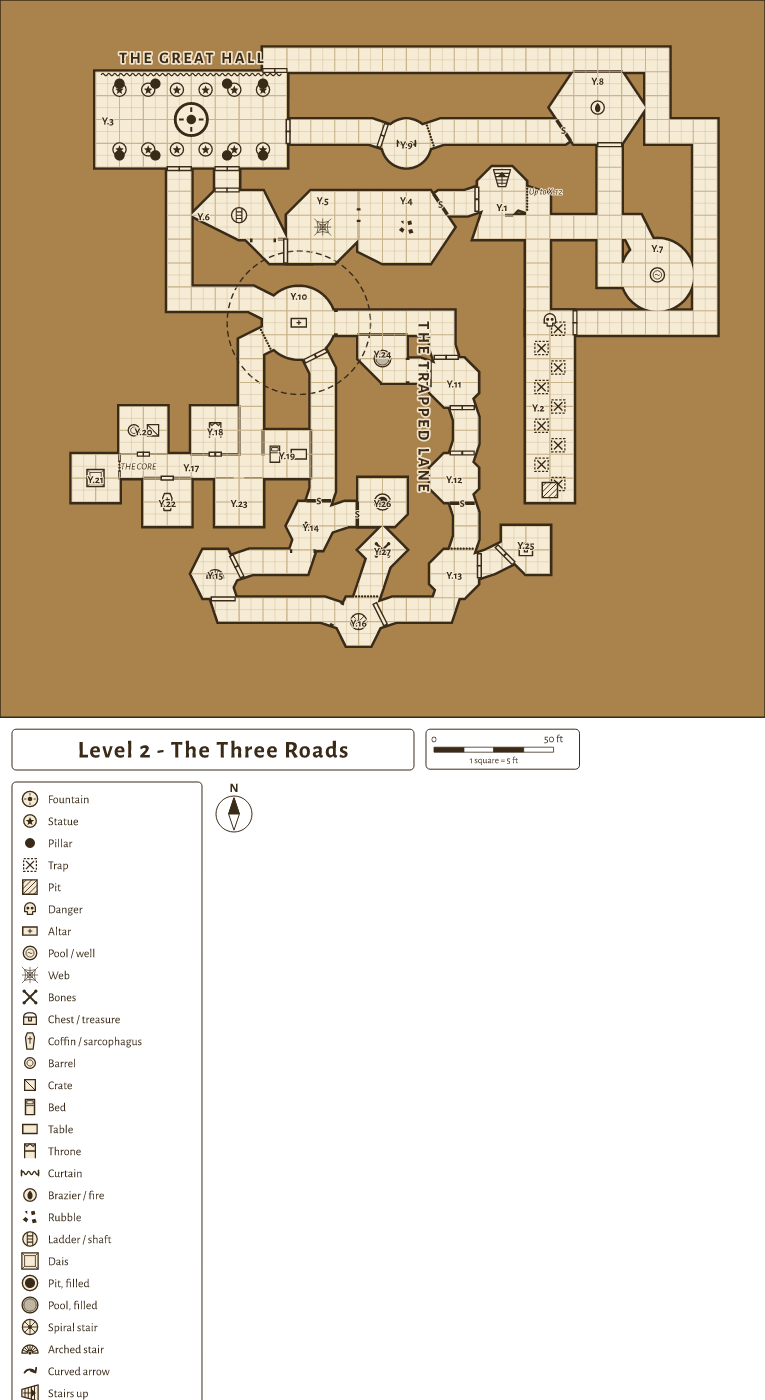
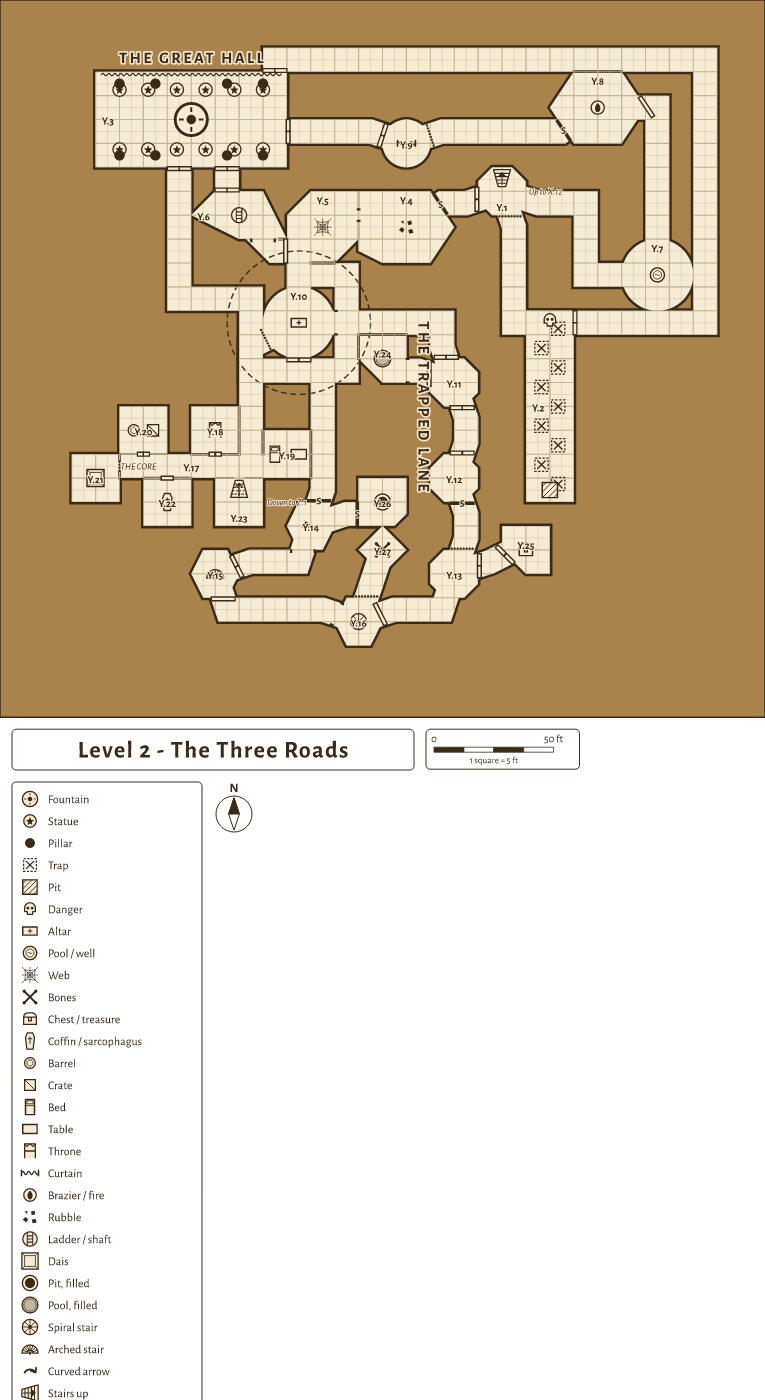
visual-design T10: passages into non-rect rooms take a port, crowded wall passages are spread
Two faults seen on the test dungeon. A passage into a round, octagonal or polygon room ended at its
centre by a diagonal leg, and two such passages overlapped there (Y.7); passages leaving one wall of
a rect room a cell apart overlapped and stacked their doors (X.1). block_map gives such an end a port
on the room's outline, snapped to a cardinal or diagonal bearing so it lies on the passage lattice,
and spread_ends gives each of the passages on a crowded wall its own offset. Each repair is made
room by room and kept only where artgen's check then finds no more than before.

On the pyramid, only the ends that had a diagonal leg changed: C.4's two passages and G.22 and G.12's
four. Their checks stay clean and no other map or write-up differs. R17 in the artgen report.

Claude-Session: https://claude.ai/code/session_015pJc9kCb1Z8WfLQ2oZjPY7

diff --git a/tools/dungeon.py b/tools/dungeon.py
@@ -8,6 +8,8 @@ problems     what is wrong with a block, for the validator
 """
 from __future__ import annotations
 
+import collections
+import copy
 import functools
 import hashlib
 import json
@@ -334,8 +336,14 @@ def block_map(region, block: kdl.Node) -> tuple[dict | None, list[str]]:
                         best, mid = hi - lo, (p[0] + ex * (lo + hi) / 2 / n, p[1] + ey * (lo + hi) / 2 / n)
             return mid
 
-        def end(c, bearing):
-            """A passage's end at room c: by the wall its Connection names, else where artgen likes."""
+        def end(c, bearing, far, ports=False):
+            """A passage's end at room c: by the wall its Connection names, else where artgen likes - but with `ports`, for a
+            room no box draws, on its outline toward room `far`, since artgen ends a passage at such a room's centre."""
+            if bearing is None and ports and not square(c):
+                dx, dy = at[far][0] - at[c][0], at[far][1] - at[c][1]
+                bearing = math.degrees(math.atan2(dx, -dy)) % 360
+                nearest = round(bearing / 90) * 90 % 360                       # a cardinal port lies on the passage lattice, an oblique one may not
+                bearing = nearest if abs((bearing - nearest + 180) % 360 - 180) < 35 else round(bearing / 45) * 45 % 360
             if bearing is None:
                 return {"room": rid(c)}
             if bearing % 90 == 0 and square(c):
@@ -352,7 +360,7 @@ def block_map(region, block: kdl.Node) -> tuple[dict | None, list[str]]:
             return {"room": rid(c), "port": to_cell(at[c][0] + x, at[c][1] + y)}
 
         corner = lambda c: (at[c][0] - size[c][0] / 2, at[c][1] - size[c][1] / 2)
-        traps = []
+        traps, recipe = [], []
         for a, b in sorted(seen, key=lambda k: (round(math.dist(corner(k[0]), corner(k[1]))), number(k[0]), number(k[1]))):
             ends = seen[a, b]                            # shortest first, as `dungeon layout` routes them
             first, second = ends.get(a), ends.get(b)
@@ -364,11 +372,27 @@ def block_map(region, block: kdl.Node) -> tuple[dict | None, list[str]]:
                                          "kind": kind or GAP.get(str(n.props.get("type")), "open")})
                 traps += [("connection", len(m["connections"]) - 1)] if hazard else []
                 continue
-            m["corridors"].append({"from": end(a, named.get((a, b))), "to": end(b, named.get((b, a))), "route": "maze",
+            recipe.append((a, b))
+            m["corridors"].append({"from": end(a, named.get((a, b)), b), "to": end(b, named.get((b, a)), a), "route": "maze",
                                    "width": round(LATTICE / cell, 2), "origin": "tables",
                                    **({"style": "natural"} if rough(*rn) else {}),
                                    "doors": [opening(first[0] if first else None), opening(second[0] if second else None)]})
             traps += [("corridor", len(m["corridors"]) - 1)] if hazard else []
+        if any(not square(c) for c in at):               # a passage that runs on to a room's centre by a diagonal leg: on a port instead, if the map is no worse
+            f = engine("facts", m)
+            def diagonal(i, k):
+                p = f["corridors"][i]["path"]
+                (x0, y0), (x1, y1) = (p[0:2], p[2:4]) if k == 0 else (p[-2:], p[-4:-2])
+                return abs(x1 - x0) > 0.01 and abs(y1 - y0) > 0.01
+            shared = [(i, k) for i, (a, b) in enumerate(recipe) for k, c in enumerate((a, b)) if not square(c) and diagonal(i, k)]
+            for room in dict.fromkeys(recipe[i][k] for i, k in shared):         # room by room, each kept if the map is no worse
+                again = copy.deepcopy(m)
+                for i, k in (s for s in shared if recipe[s[0]][s[1]] == room):
+                    a, b = recipe[i]
+                    here, far = (a, b) if k == 0 else (b, a)
+                    again["corridors"][i]["from" if k == 0 else "to"] = end(here, named.get((here, far)), far, ports=True)
+                if findings(again) <= findings(m):
+                    m = again
         added = [(i, k) for i, c in enumerate(m["corridors"]) for k in (0, 1) if c["doors"][k] == "arch"]
         if added:                                        # an added arch that meets another corridor's end is left open
             f = engine("facts", m)
@@ -413,6 +437,46 @@ def block_map(region, block: kdl.Node) -> tuple[dict | None, list[str]]:
             m["overlay"]["symbols"].append({"kind": "trap", "x": round((cx(a) + cx(b)) / 2, 2),
                                             "y": round((cy(a) + cy(b)) / 2, 2), "origin": "tables"})
     return m, problems
+
+
+def findings(m: dict) -> int:
+    """What artgen's `check` finds wrong with a map: errors and warnings."""
+    found = engine("check", m)
+    return len(found.get("errors", [])) + len(found.get("warnings", []))
+
+
+def spread_ends(m: dict) -> None:
+    """Passages that leave one wall of a rectangular room are a passage's width apart: where artgen drew two of them over
+    each other (their doors stack, or stand in the other's floor), each is given its own place along the wall, evenly.
+    A wall too short for them is left as it is. The answer is kept under .maps-cache."""
+    rooms = {r["id"]: r for r in m["rooms"] if r.get("shape") in ("rect", "cave")}
+    found = engine("check", m)
+    hit = {int(i) for x in found.get("errors", []) + found.get("warnings", []) if x.get("id") in ("doors-stacked", "door-off-wall")
+           for i in re.findall(r"corridors\[(\d+)\]", x.get("path", "") + " " + x["message"])}
+    if not hit:
+        return
+    f = engine("facts", m)
+    ends = collections.defaultdict(list)              # (room, side) -> [(position along the wall, corridor, end)]
+    for i, c in enumerate(m["corridors"]):
+        path = f["corridors"][i]["path"]
+        for end, pt, nxt in (("from", path[0:2], path[2:4]), ("to", path[-2:], path[-4:-2])):
+            r = rooms.get(c[end].get("room"))
+            if r is None or len(path) < 4:
+                continue
+            dx, dy = nxt[0] - pt[0], nxt[1] - pt[1]               # the way it heads off: its path starts at the room's anchor
+            side = ("e" if dx > 0 else "w") if abs(dx) >= abs(dy) else ("s" if dy > 0 else "n")
+            ends[r["id"], side].append((pt[1] - r["y"] if side in "ew" else pt[0] - r["x"], i, end))
+    again = copy.deepcopy(m)
+    for (rid_, side), group in ends.items():
+        r = rooms[rid_]
+        length = r["h"] if side in "ew" else r["w"]
+        width = max(m["corridors"][i].get("width", 2) for _, i, _ in group)
+        if len(group) < 2 or not any(i in hit for _, i, _ in group) or length / len(group) < width:
+            continue
+        for slot, (_, i, end) in enumerate(sorted(group)):
+            again["corridors"][i][end] = {"room": rid_, "side": side, "offset": round((slot + 0.5) * length / len(group), 2)}
+    if findings(again) < findings(m):                 # kept only where artgen then finds less
+        m["corridors"] = again["corridors"]
 
 
 def route_around(m: dict) -> None:

diff --git a/tools/maps.py b/tools/maps.py
@@ -789,6 +789,7 @@ def built(code: str, bid: str, setting: Path = tables.SETTING) -> tuple[Path | N
         return None, tuple(problems)
     if ENGINE[region.rating.upper()] == "dungeon":
         import dungeon
+        dungeon.spread_ends(m)
         dungeon.route_around(m)
     target, text = region.dir / f"{bid}.json", json.dumps(m, indent=1)
     if not target.exists() or target.read_text() != text:

diff --git a/plans/visual-design/report-artgen.md b/plans/visual-design/report-artgen.md
@@ -47,6 +47,7 @@ files are under `plans/visual-design/` and are named in each request.
 | R14 | `layout` with cave and polygon rooms: it joins a room as its box, so a way between two caves is a door on a wall the cave's outline does not reach | `evidence/test-dungeon/designs/Z-Design.md`: 24 of 24 seeds routed, and `check` finds `way-no-passage` on 10 or 11 of the 13 ways |
 | R15 | The `dark` preset draws the outside band (title, scale bar, legend) in colours that cannot be read, and a legend of thirty symbols shrinks a square map to a thumbnail | `evidence/test-dungeon/level3.png`; `level2.png` |
 | R16 | Carry what a table cannot say into the map: symbols, rings, wavy edges, natural and curved passages, double doors, dashed walls, doors standing in a run | Only door kinds, shapes, widths and stairs came through the tables; the rest was a 30 to 60 line pass for each level (`evidence/test-dungeon/scripts/`) |
+| R17 | A passage that ends at a round, octagonal or polygon room goes to its anchor, by a diagonal final leg, and two such passages overlap there; passages that leave one wall of a rect room a cell apart overlap and stack their doors | Seen on the test dungeon's Y.7 and X.1, and on C.4 and G.22 of the pyramid. `check` finds the stacked doors but not the diagonal leg. setting_builder now writes ports and offsets itself (`dungeon.block_map`, `spread_ends`), where `check` agrees |
 | R12 | Room places in whole feet: a room an odd number of cells wide has its centre at a half foot, so the packing's place is not one a table can hold | `design.py` sizes rooms in 10 ft steps to avoid it |
 | R13 | Routing that holds at 25 rooms and more: seeds that route, or a repair when none do | G at 29 rooms (below): the real graph from the tables routes 1 seed of 12, and a design of the same size 0 of 12, so a level this size needs dozens of seeds |
 

diff --git a/plans/sheet-maps/artgen-capabilities.md b/plans/sheet-maps/artgen-capabilities.md
@@ -12,7 +12,7 @@ the choices `tools/dungeon.py` and `tools/maps.py` make. What artgen lacks, and 
 | `scale.perCell` | 5 ft a cell, so a 10-ft passage is `width: 2`. |
 | `rooms[].shape` | `rect`, `circle`, `cave`, `octagon` (`cut` 1/(2+√2), so a square one is regular) and `hexagon` as themselves; a `poly` outline as a `poly`. |
 | `rooms[].number` | `false`: the code alone labels a room. |
-| `corridors[]` | Where two rooms do not touch: `route: "maze"`, `width: 2`, its ends `{room, side}` or `{room, port}` at the wall the Connection names, else `{room}`. Written shortest first, as `dungeon layout` routed them, so the map draws the passages `pack` measured. |
+| `corridors[]` | Where two rooms do not touch: `route: "maze"`, `width: 2`, its ends `{room, side}` or `{room, port}` at the wall the Connection names, else `{room}`. Written shortest first, as `dungeon layout` routed them, so the map draws the passages `pack` measured. A passage into a round, octagonal or polygon room whose route ends by a diagonal leg takes a `port` on its outline (artgen ends it at the room's centre); two passages that leave one wall of a rect room over each other are given their own `offset`. Each change is kept only where `check` then finds no more than before. |
 | `connections[]` | A door or opening where two rooms touch. |
 | `furniture.place` | `outside`, so nothing stands on the map. |
 | `rooms[].exits` | Each way out of the block, a stair or arrow by the wall facing it, with a note naming the way. artgen keeps the notes on the floor and spreads marks sharing a wall. |
